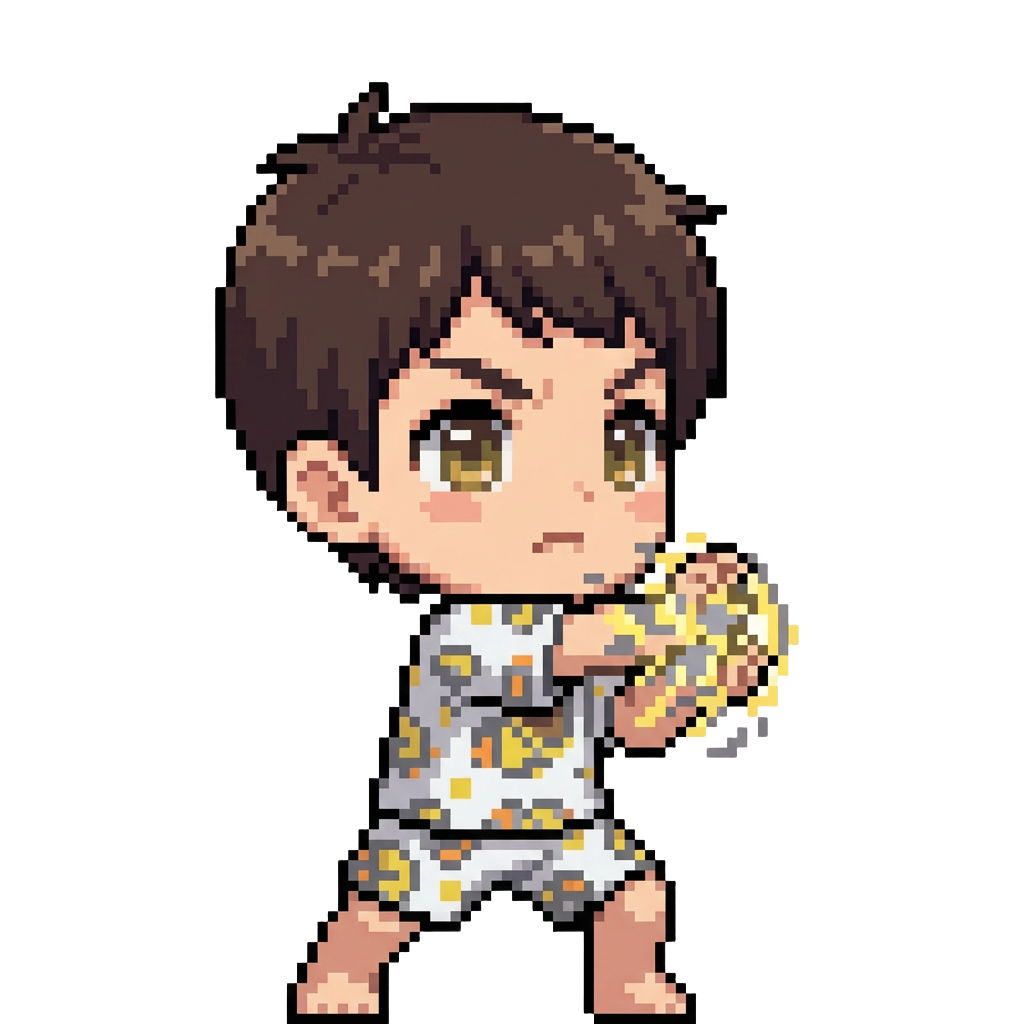
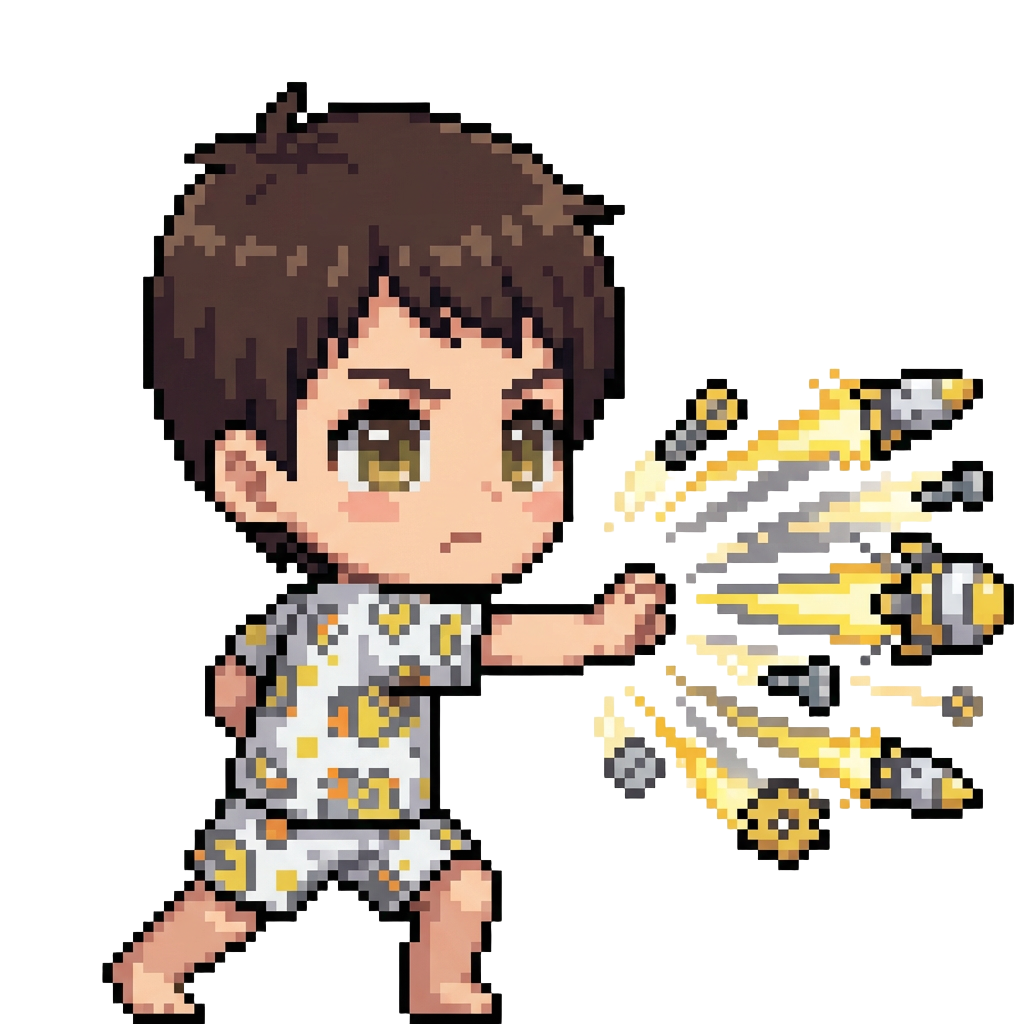
fix: Animation fixes and team selection bug
- Fix team selection not reflecting in battle (use usePlayerData hook)
- Add cinnamon_girl, nika, lennon to ANIMATED_UNITS list
- Fix Lennon sprite sheet order (idle, attack_1, attack_2)
- Regenerate sprite sheets with correct frame order

diff --git a/src/app/battle/[stageId]/page.tsx b/src/app/battle/[stageId]/page.tsx
@@ -6,9 +6,9 @@ import Link from "next/link";
 import dynamic from "next/dynamic";
 import stagesData from "@/data/stages.json";
 import unitsData from "@/data/units.json";
-import playerData from "@/data/player.json";
 import type { StageDefinition, UnitDefinition } from "@/data/types";
 import { useLanguage } from "@/contexts/LanguageContext";
+import { usePlayerData } from "@/hooks/usePlayerData";
 
 // Phaserコンポーネントを動的インポート（SSR無効）
 const PhaserGame = dynamic(
@@ -24,6 +24,7 @@ export default function BattlePage() {
     const params = useParams();
     const stageId = params.stageId as string;
     const { t } = useLanguage();
+    const { selectedTeam, isLoaded } = usePlayerData();
 
     const [stage, setStage] = useState<StageDefinition | null>(null);
     const [team, setTeam] = useState<UnitDefinition[]>([]);
@@ -31,6 +32,9 @@ export default function BattlePage() {
     const [result, setResult] = useState<{ win: boolean; coins: number } | null>(null);
 
     useEffect(() => {
+        // プレイヤーデータがロードされるまで待つ
+        if (!isLoaded) return;
+
         // ステージデータ取得
         const stageData = allStages.find((s) => s.id === stageId);
         if (!stageData) {
@@ -40,11 +44,11 @@ export default function BattlePage() {
         setStage(stageData);
 
         // 編成データ取得（チームのユニット定義）
-        const teamDefs = playerData.selectedTeam
+        const teamDefs = selectedTeam
             .map((id) => allUnits.find((u) => u.id === id))
             .filter((u): u is UnitDefinition => u !== undefined);
         setTeam(teamDefs);
-    }, [stageId, router]);
+    }, [stageId, router, selectedTeam, isLoaded]);
 
     const handleBattleEnd = (win: boolean, coinsGained: number) => {
         setBattleEnded(true);

diff --git a/src/game/entities/Unit.ts b/src/game/entities/Unit.ts
@@ -7,7 +7,7 @@ import type { Castle } from './Castle';
 // ============================================
 
 // アニメーション対応ユニットIDのリスト
-const ANIMATED_UNITS = ['cat_warrior', 'corn_fighter', 'penguin_boy'];
+const ANIMATED_UNITS = ['cat_warrior', 'corn_fighter', 'penguin_boy', 'cinnamon_girl', 'nika', 'lennon'];
 
 export class Unit extends Phaser.GameObjects.Container {
     // 基本データ
